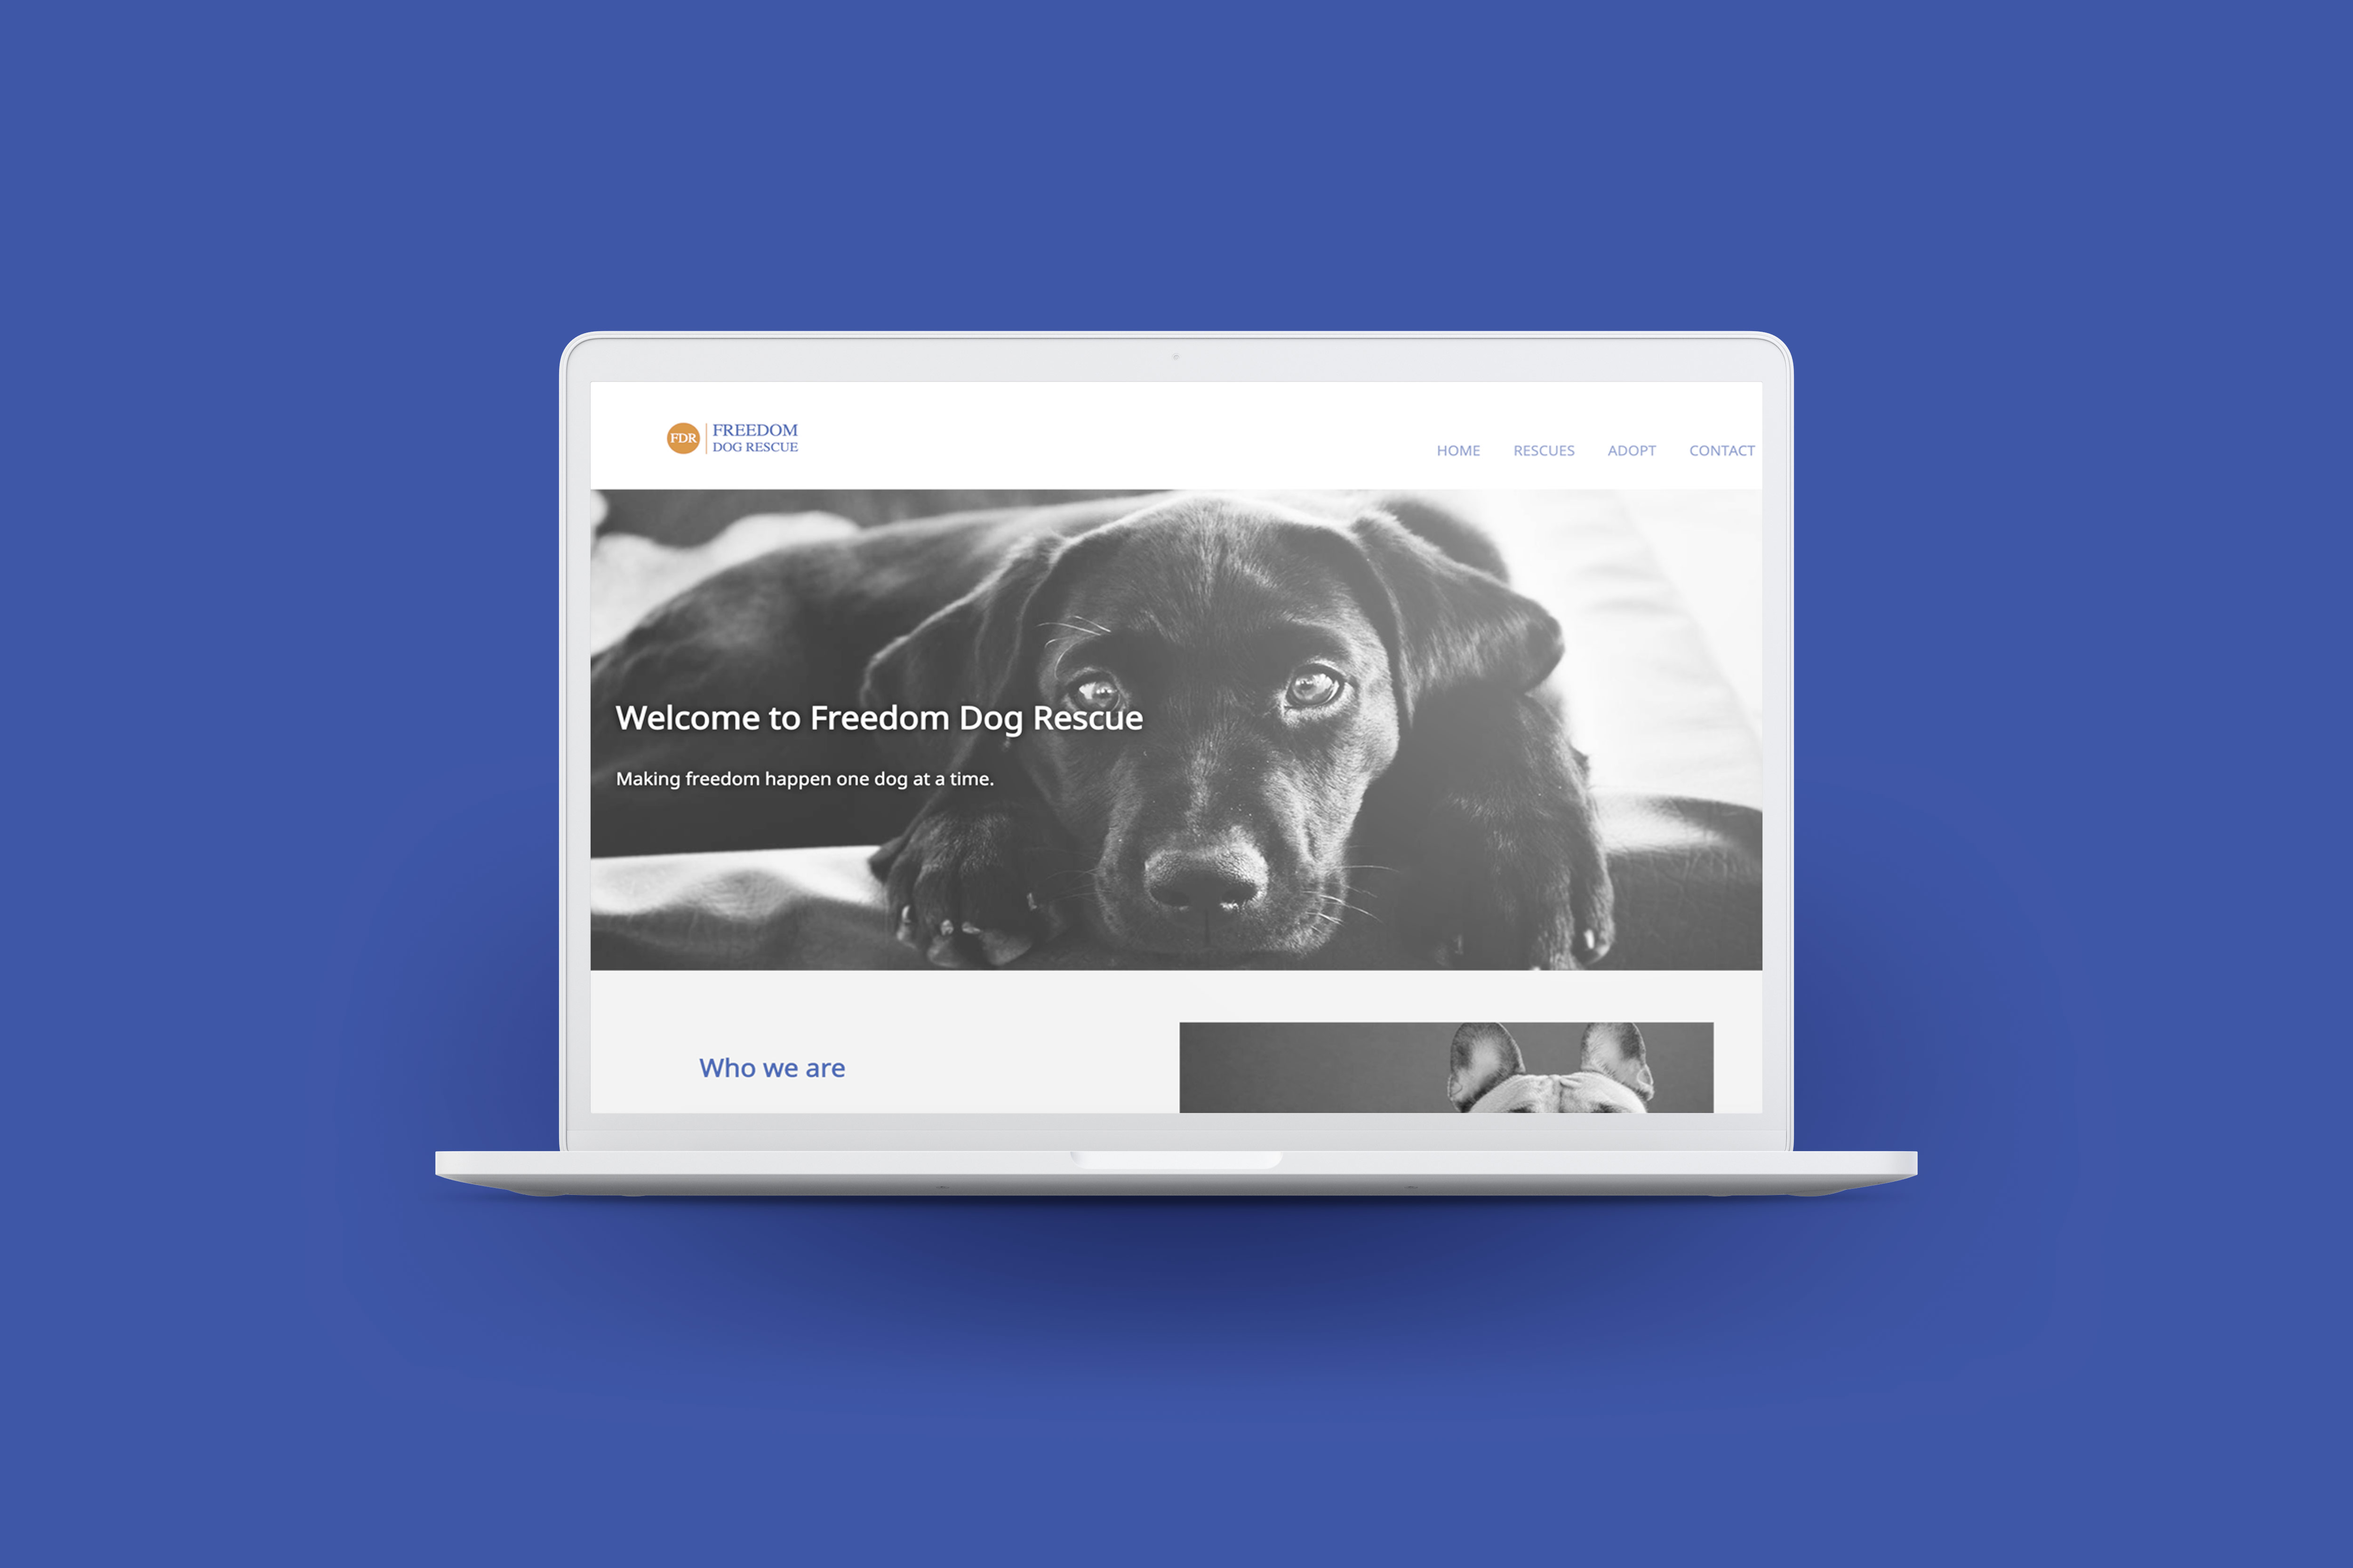
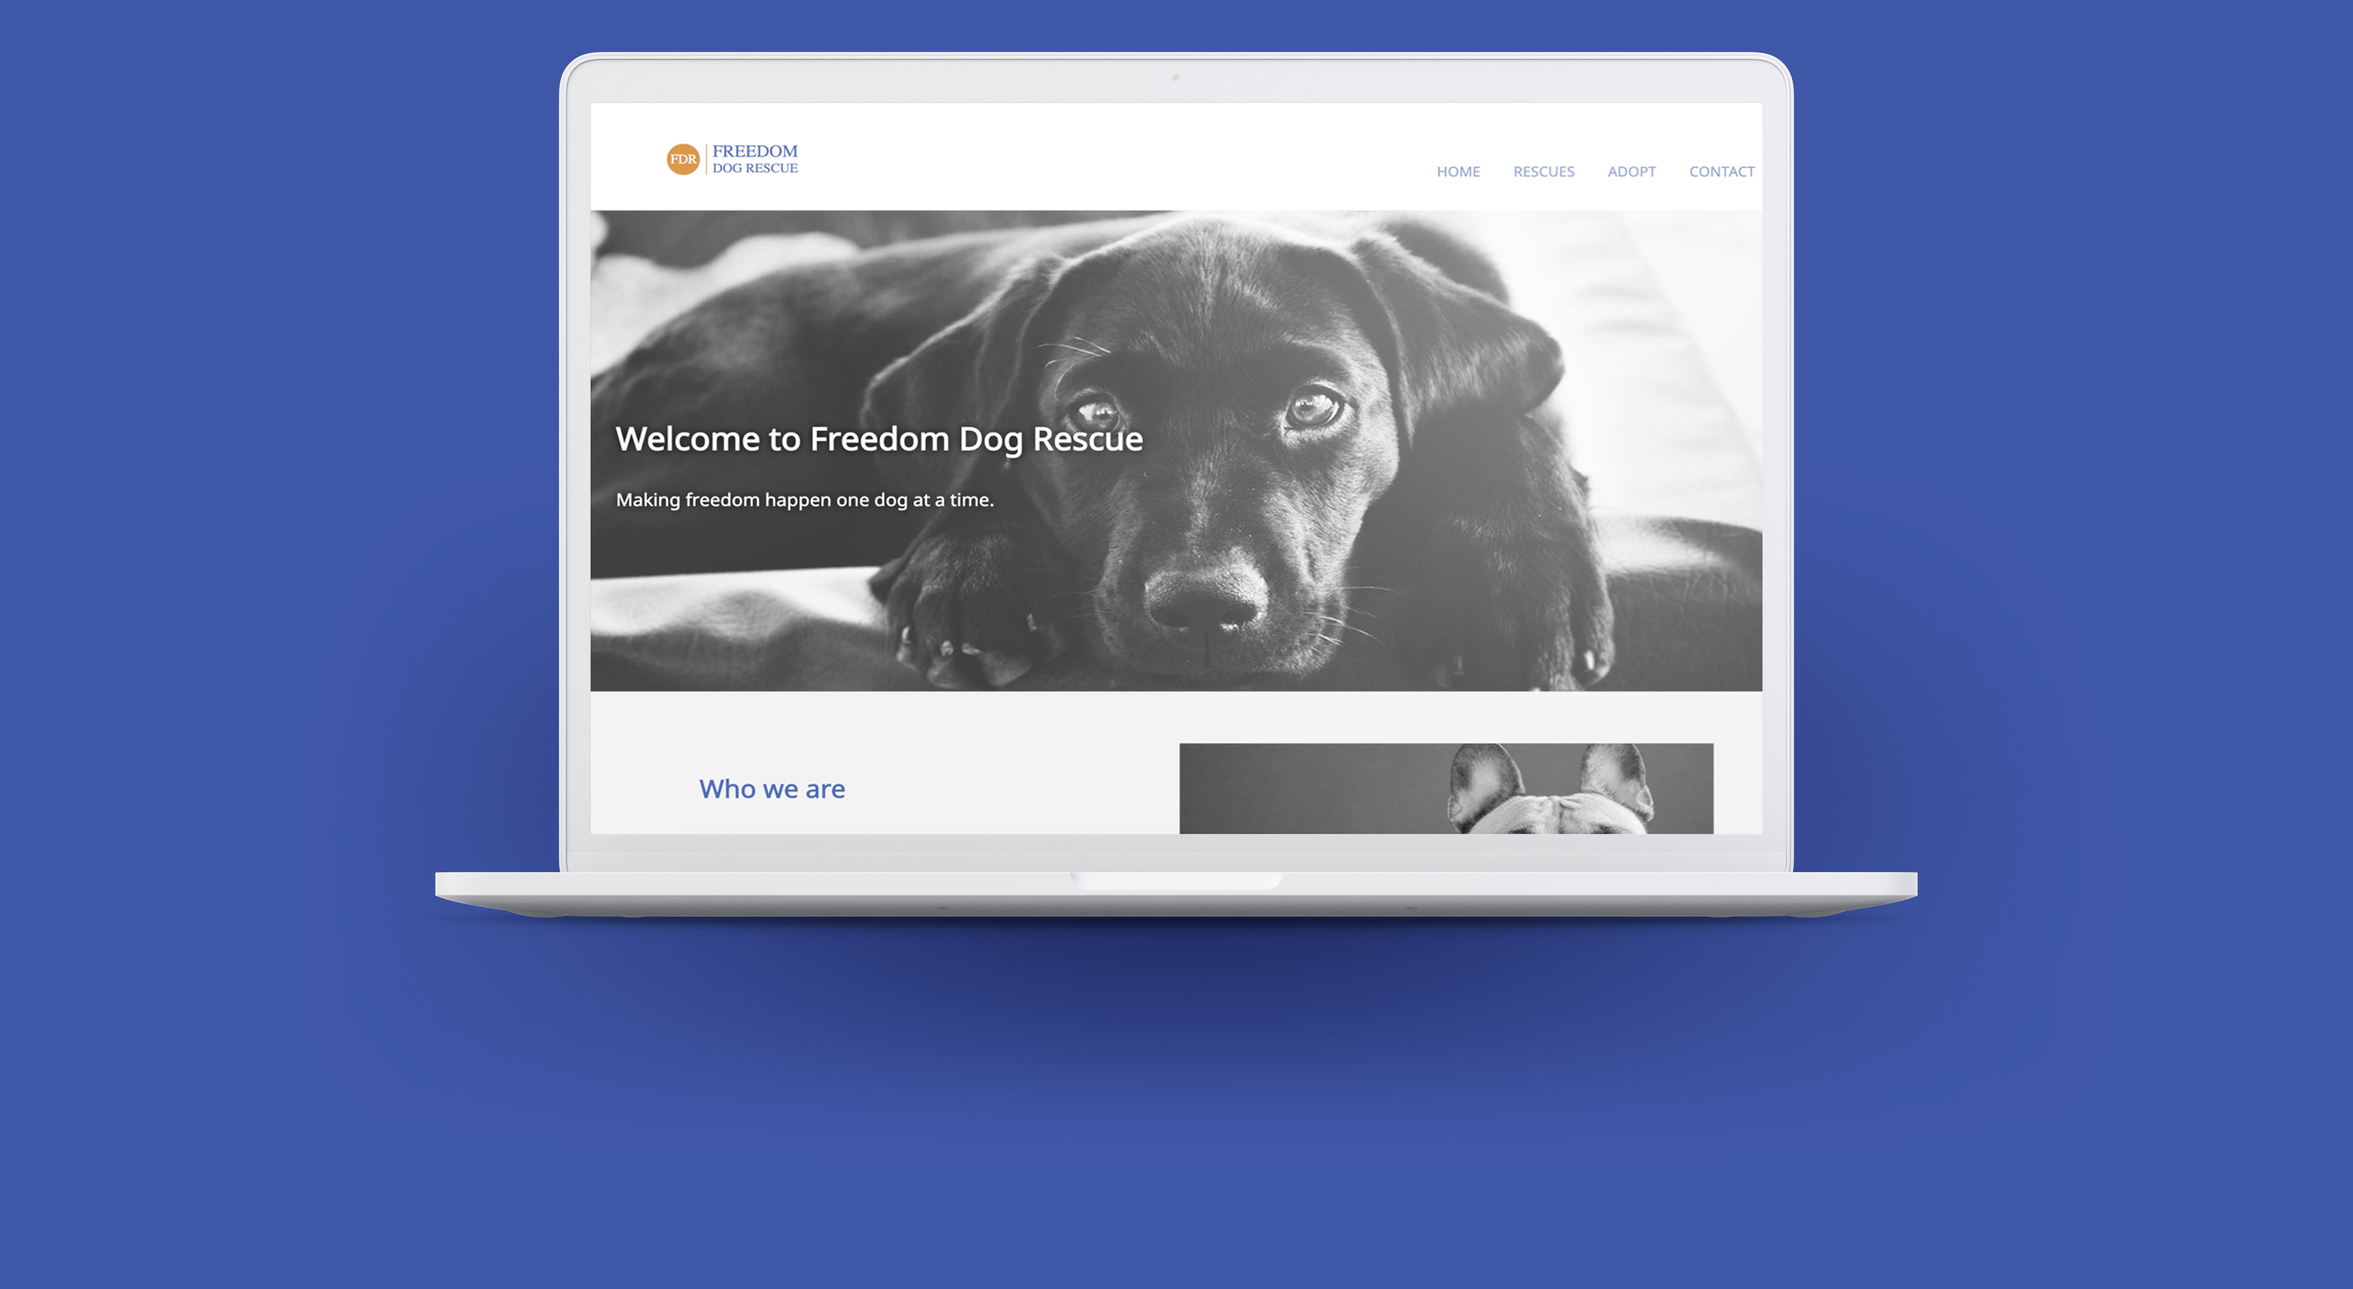
adds drop shadow to website img

Changed region(s): [[0.1872, 0.031, 0.8112, 0.7755]]

diff --git a/web.html b/web.html
@@ -68,7 +68,7 @@ layout: web
           <p class="gray milli">The website's homepage is simple and straight to the point. The colours bring out the story this company is trying to tell.</p>
         </div>
         <div>
-          <img class="img-flex" src="/images/site-screenshot.jpg" alt="">
+          <img class="img-flex gray-shadow" src="/images/site-screenshot.jpg" alt="">
         </div>
       </div>
     </section>

diff --git a/css/main.css b/css/main.css
@@ -132,6 +132,10 @@ p {
   background-color: #f7f7f7;
 }
 
+.gray-shadow {
+  filter: drop-shadow(5px 5px 15px rgba(0, 0, 0, 0.18));
+}
+
 .next-project {
   width: 100%;
 }
